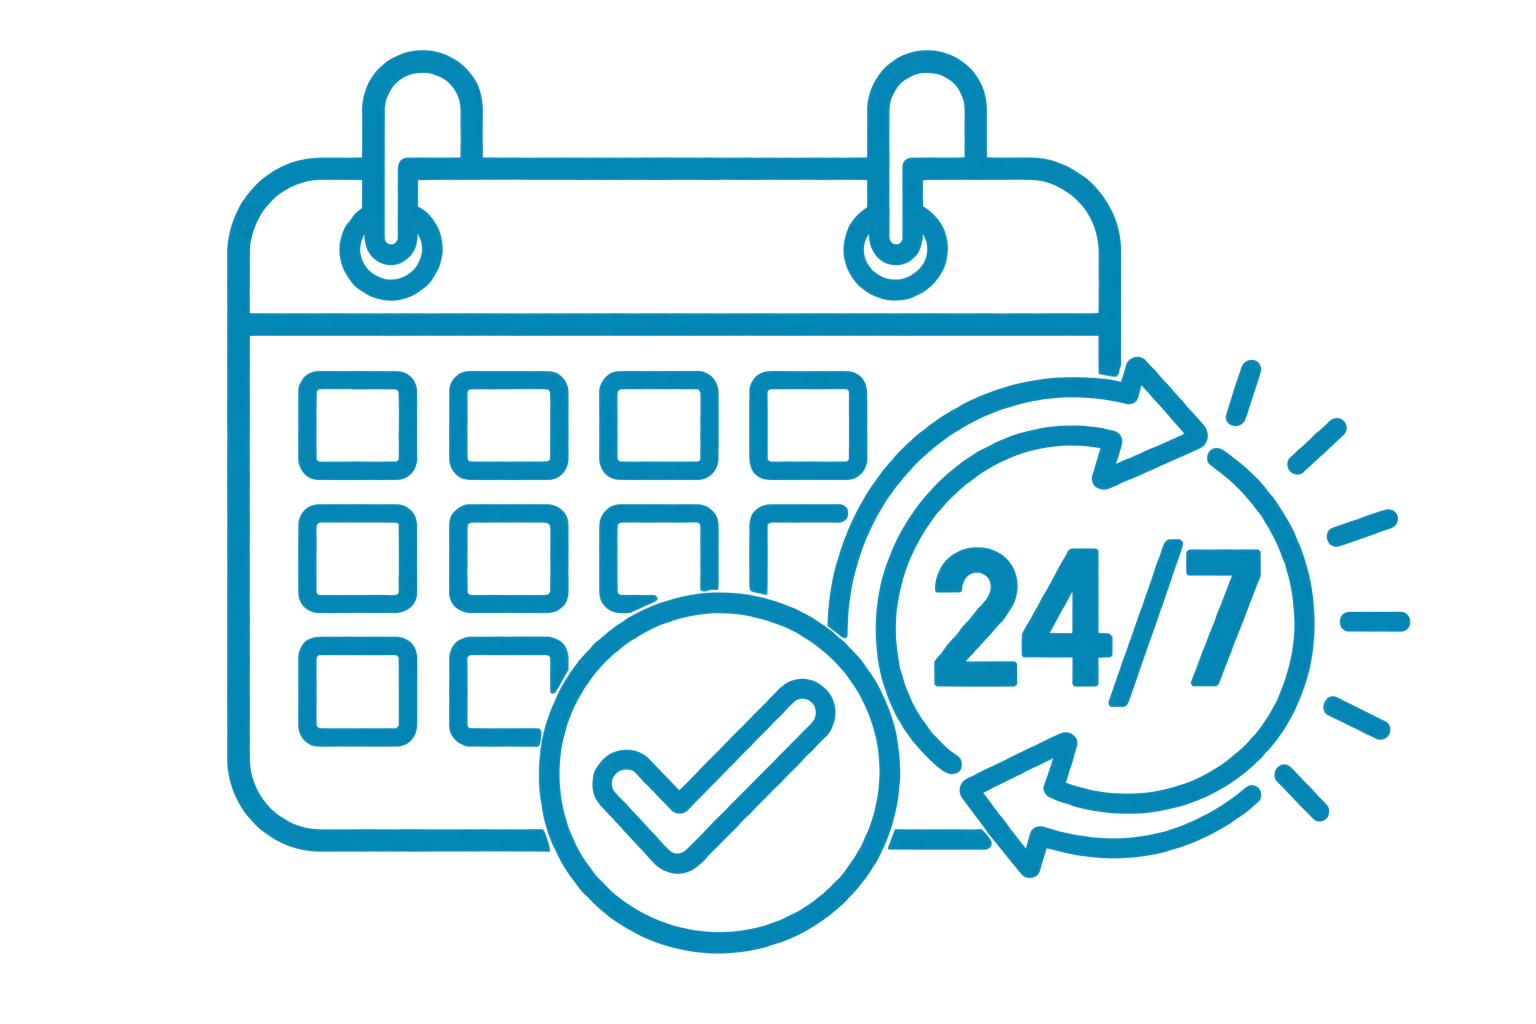
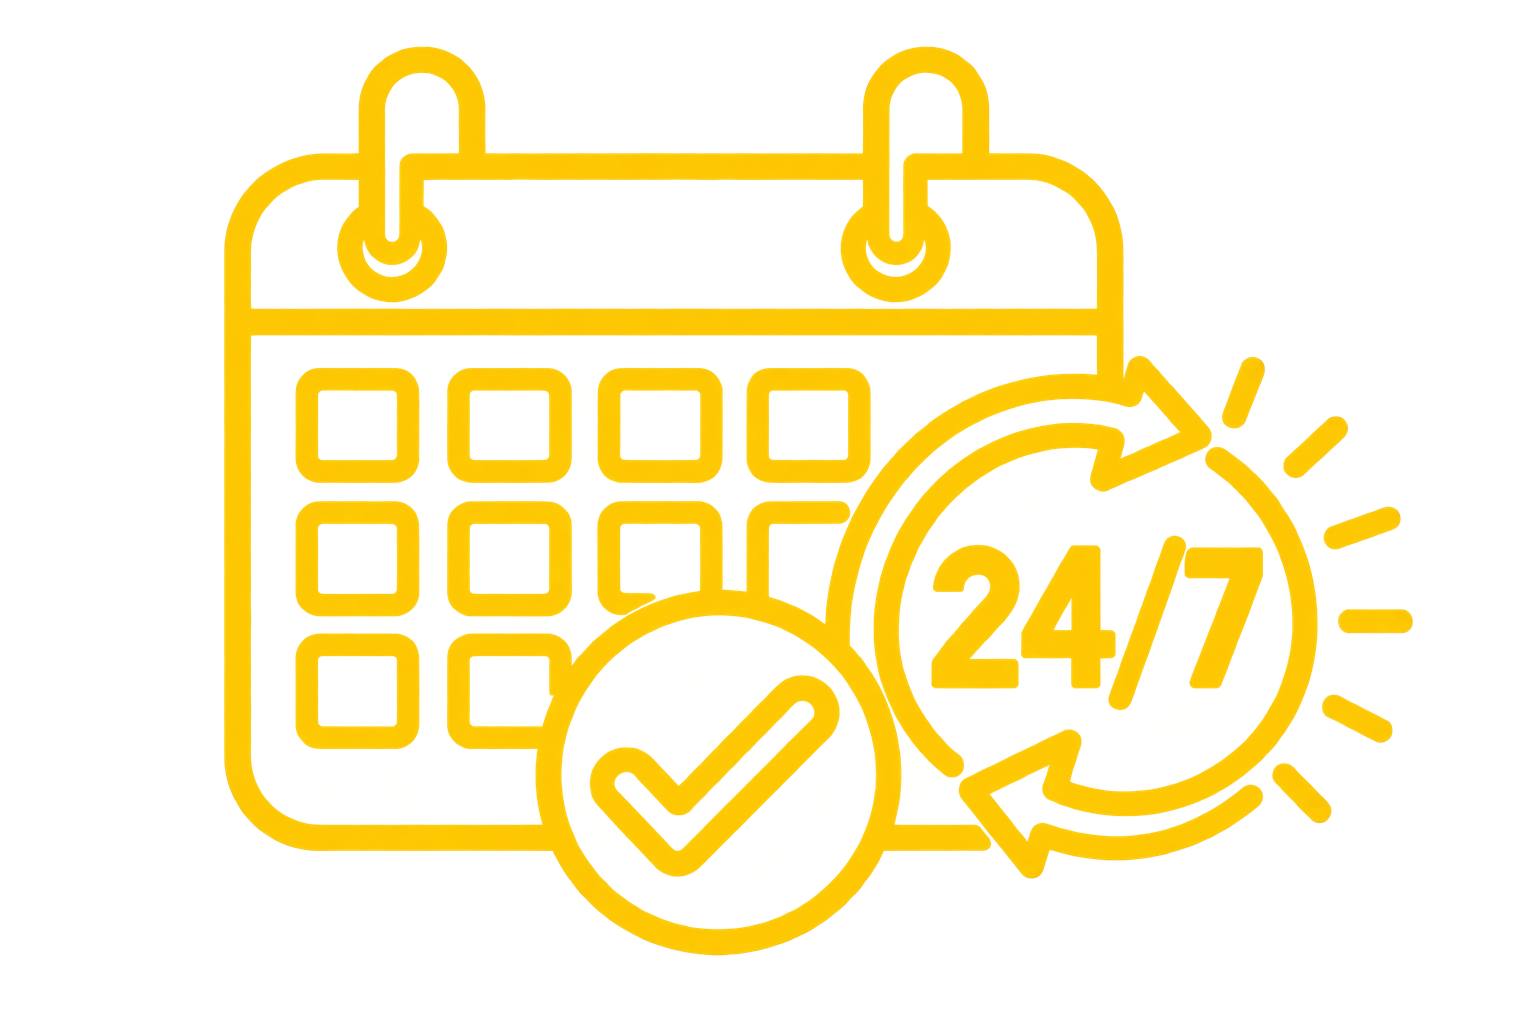
бновить страницу сантехника

Changed region(s): [[0.125, 0.0312, 0.9375, 0.9375]]

diff --git a/app/santehnik/page.tsx b/app/santehnik/page.tsx
@@ -19,59 +19,67 @@ export default function SantehnikPage() {
       <Header />
 
       {/* ================= МОБИЛЬНЫЙ ПЕРВЫЙ ЭКРАН ================= */}
-<section className="bg-[#303030] px-6 py-8 text-white md:hidden">
-
-  <h1 className="text-center text-3xl font-bold text-yellow-400">
-    Сантехник в Алматы
+<section className="bg-[#333333] px-6 py-8 text-white md:hidden">
+  <h1 className="text-center text-4xl font-bold leading-tight text-white">
+    САНТЕХНИК АЛМАТЫ
   </h1>
 
-  <p className="mt-4 text-center text-lg font-bold text-white">
-    Вызов сантехника на дом. Ремонт, установка сантехники,
-    устранение протечек и срочный выезд мастера.
+  
+
+  <div className="mx-auto mt-8 grid w-max max-w-full gap-y-0">
+  {[
+    ["/banner-fast.png", "Быстрый выезд"],
+    ["/banner-garantiya.png", "Гарантия до 3 лет"],
+    ["/banner-everyday.png", "Работаем каждый день"],
+  ].map(([icon, label]) => (
+    <div key={label} className="grid min-h-10 grid-cols-[48px_auto] items-center gap-1">
+      <img src={icon} alt="" className="h-14 w-14 object-contain" />
+      <span className="text-lg font-normal text-white">{label}</span>
+    </div>
+  ))}
+</div>
+  <p className="mt-7 text-center text-lg leading-7">
+    Вызов сантехника на дом. Ремонт, Установка, Прочистка сантехники
+    и устранение протечек.
   </p>
 
-  <div className="mt-10 grid grid-cols-3 gap-2 text-center">
+ <>
+  <style>{`
+    @keyframes callButtonShine {
+      from { transform: translateX(0) skewX(-25deg); }
+      to { transform: translateX(1800%) skewX(-25deg); }
+    }
 
-    <div className="flex flex-col items-center">
-      <img
-        src="/banner-fast.png"
-        alt="Быстрый выезд"
-        className="h-12 w-12 object-contain"
-      />
-      <p className="mt-3 text-base text-white">
-        Быстрый<br />выезд
-      </p>
-    </div>
+    .call-button-shine {
+      position: relative;
+      overflow: hidden;
+    }
 
-    <div className="flex flex-col items-center border-x border-white/20">
-      <img
-        src="/banner-garantiya.png"
-        alt="Гарантия до 3 лет"
-        className="h-12 w-12 object-contain"
-      />
-      <p className="mt-3 text-base text-white">
-        Гарантия<br />до 3 лет
-      </p>
-    </div>
+    .call-button-shine::after {
+      content: "";
+      position: absolute;
+      top: 0;
+      bottom: 0;
+      left: -25%;
+      width: 8%;
+      background: linear-gradient(
+        90deg,
+        transparent,
+        rgba(255, 255, 255, 0.4),
+        transparent
+      );
+      animation: callButtonShine 2.5s linear infinite;
+      pointer-events: none;
+    }
+  `}</style>
 
-    <div className="flex flex-col items-center">
-      <img
-        src="/banner-everyday.png"
-        alt="Работаем каждый день"
-        className="h-12 w-12 object-contain"
-      />
-      <p className="mt-3 text-base text-white">
-        Работаем<br />каждый день
-      </p>
-    </div>
-
-  </div>
-
-  <p className="mt-5 px-5 text-center text-base leading-6 text-white">
-    Опытные сантехники. Работаем аккуратно и ответственно.
-    Предоставляем гарантию на выполненные работы.
-  </p>
-
+  <a
+    href="tel:+77771696969"
+    className="call-button-shine mx-auto mt-10 flex max-w-sm items-center justify-center rounded-full bg-[#0092B8]/40 px-6 py-4 text-lg font-normal text-white"
+  >
+    Вызвать мастера
+  </a>
+</>
 </section>
 
 
@@ -96,15 +104,15 @@ export default function SantehnikPage() {
         Сантехник в Алматы
       </h1>
 
-      <p className="mt-6 max-w-2xl text-xl leading-8 text-slate-100">
+      <p className="ml-25 mt-10 max-w-2xl text-xl leading-8 text-slate-100">
         Установка и ремонт сантехники, устранение протечек,
         замена смесителей, унитазов и труб. Срочный выезд мастера по Алматы.
       </p>
 
-      <div className="mt-8 flex flex-wrap gap-4">
+      <div className="ml-50 mt-13 flex flex-wrap gap-9">
         <a
           href="tel:+77771696969"
-          className="rounded-full bg-yellow-400 px-8 py-4 text-lg font-black text-slate-950 shadow-xl transition hover:-translate-y-1 hover:bg-yellow-300"
+          className="rounded-full bg-[#FDC700] px-8 py-4 text-lg font-black text-slate-950 shadow-xl transition hover:-translate-y-1 hover:bg-[#e8b700]"
         >
           📞 Позвонить
         </a>
@@ -113,39 +121,40 @@ export default function SantehnikPage() {
           href="https://wa.me/77771696969"
           target="_blank"
           rel="noopener noreferrer"
-          className="rounded-full bg-green-500 px-8 py-4 text-lg font-black text-white shadow-xl transition hover:-translate-y-1 hover:bg-green-600"
+          className="rounded-full bg-[#0092B8] px-8 py-4 text-lg font-black text-white shadow-xl transition hover:-translate-y-1 hover:bg-[#007a99]"
         >
           WhatsApp
         </a>
       </div>
 
-      <div className="mt-5 grid grid-cols-2 gap-y-10 md:grid-cols-4 md:gap-0">
-        {[
-          ["/banner-everyday.png", "Работаем", "каждый день"],
-          ["/banner-fast.png", "Быстрый", "выезд"],
-          ["/banner-garantiya.png", "Гарантия", "до 3 лет"],
-          ["/banner-master.png", "Опытные", "мастера"],
-        ].map(([icon, line1, line2]) => (
-          <div
-            key={line1}
-            className="flex flex-col items-center justify-center text-center md:border-r md:border-white/20 md:last:border-r-0"
-          >
-            <div className="mb-4 flex h-14 items-center justify-center">
-              <img
-                src={icon}
-                alt=""
-                className="h-12 w-12 object-contain"
-              />
-            </div>
+<div className="mx-auto mt-15 grid w-full max-w-[1200px] grid-cols-2 gap-4 px-2 text-white md:grid-cols-4">
+  {[
+    ["/clients.png", "1000+", "довольных клиентов"],
+    ["/time.png", "30–45 мин", "срочный выезд"],
+    ["/guarantee.png", "до 3 лет", "гарантия на работы"],
+    ["/calendar.png", "7 дней", "работаем без выходных"],
+  ].map(([icon, number, caption]) => (
+    <div
+      key={icon}
+      className="group relative flex min-w-0 items-center justify-center gap-3 px-2 pb-5"
+    >
+      <img
+        src={icon}
+        alt=""
+        className="h-12 w-12 shrink-0 object-contain transition-transform duration-300 group-hover:scale-110 md:h-14 md:w-14"
+      />
 
-            <p className="text-lg font-black text-white">
-              {line1}
-              <br />
-              {line2}
-            </p>
-          </div>
-        ))}
+      <div className="origin-left transition-transform duration-300 group-hover:scale-110">
+        <div className="whitespace-nowrap text-xl font-black text-[#FDC700] md:text-3xl">
+       {number}
+       </div>
+        <div className="text-sm">{caption}</div>
       </div>
+
+      <span className="absolute bottom-4 left-[15%] h-1 w-[70%] origin-center scale-x-50 rounded-full bg-[#FDC700] transition-transform duration-300 group-hover:scale-x-100" />
+    </div>
+  ))}
+</div>
 
     </div>
   </div>
